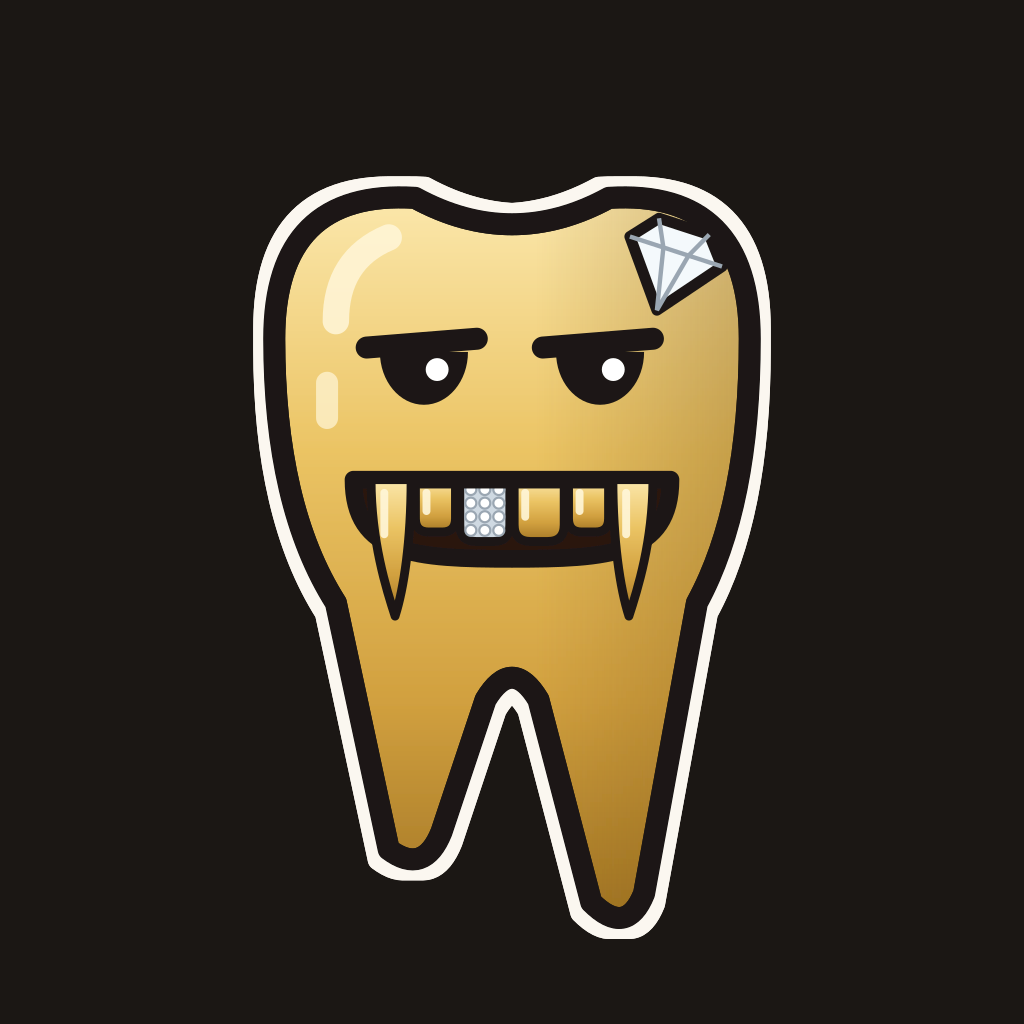
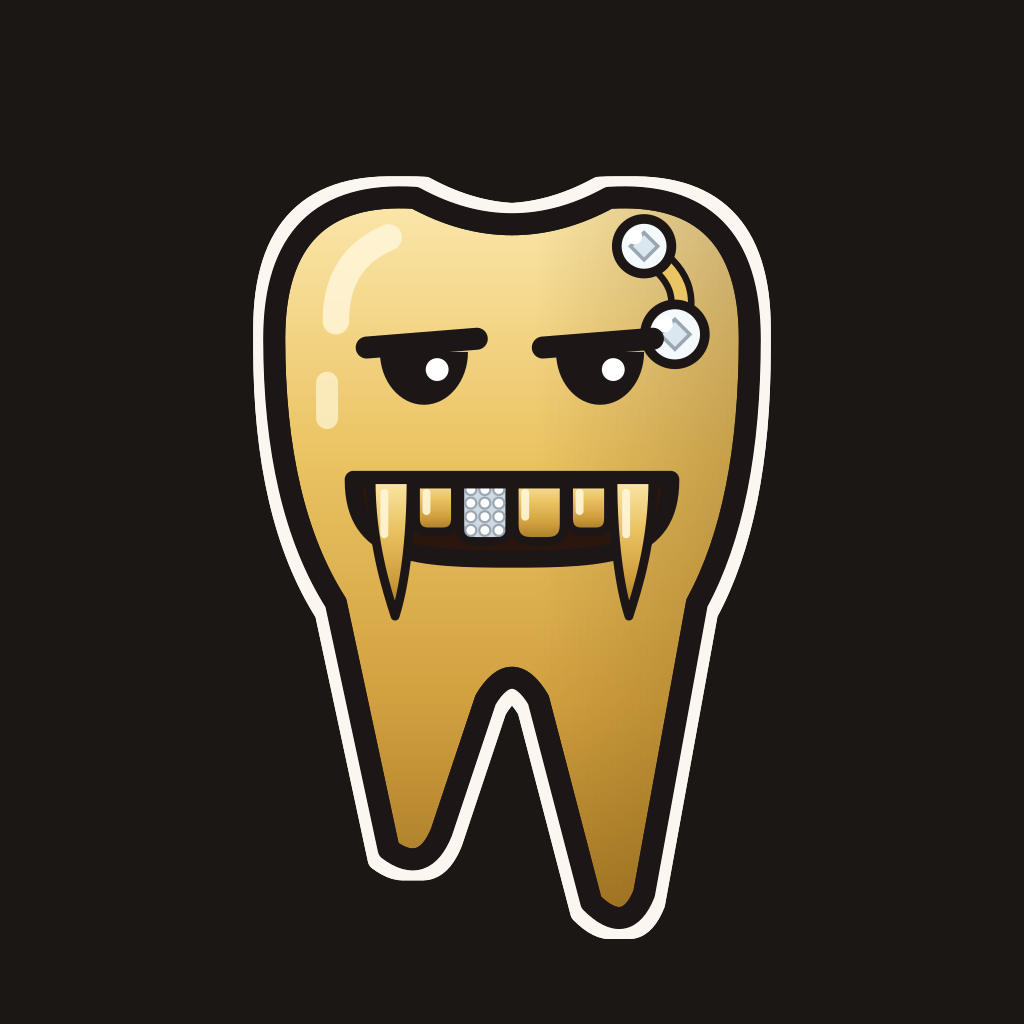
Karat: eyebrow piercing instead of the crown stone
A curved gold barbell through the outer right brow with an iced-out,
diamond-cut stone on each end, on every expression, the side view and the
exports.

Claude-Session: https://claude.ai/code/session_01CsKqmQb1fcvU3uVFSjXsG3

Changed region(s): [[0.5938, 0.1875, 0.7188, 0.375]]

diff --git a/scripts/mascot-model.ts b/scripts/mascot-model.ts
@@ -107,8 +107,12 @@ export function mascot(expression: Expression, id: string, { sticker = false, sh
   const { rotate = 0, lift = 0 } = expression.pose ?? {};
   const fill = expression.dull ? 'url(#dull)' : 'url(#gold)';
   const brows = (expression.brows ?? []).map(([x1, y1, x2, y2]) => `<path d="M${x1} ${y1}L${x2} ${y2}" stroke="${INK}" stroke-width="6" stroke-linecap="round"/>`).join('');
-  // The signature: one brilliant-cut stone set in the crown.
-  const stone = `<g transform="translate(136 44) rotate(18)"><path d="M-11 -4L-6 -10L6 -10L11 -4L0 10Z" fill="${expression.dull ? '#c9c6bd' : '#f4f9fc'}" stroke="${INK}" stroke-width="2.5" stroke-linejoin="round"/><path d="M-11 -4L11 -4M-6 -10L-3 -4L0 10L3 -4L6 -10" fill="none" stroke="#9aa6b2" stroke-width="1"/></g>`;
+  // The signature: an eyebrow piercing at the outer end of his right brow, a
+  // curved gold barbell with an iced-out stone on each end.
+  const ice = expression.dull ? '#c9c6bd' : '#f4f9fc';
+  const gem = (cx: number, cy: number, r: number) =>
+    `<circle cx="${cx}" cy="${cy}" r="${r}" fill="${ice}" stroke="${INK}" stroke-width="2.2"/><path d="M${cx - r * 0.5} ${cy}L${cx} ${cy - r * 0.5}L${cx + r * 0.5} ${cy}L${cx} ${cy + r * 0.5}Z" fill="#dbe7f0" stroke="#9aa6b2" stroke-width=".8"/>${expression.dull ? '' : `<circle cx="${cx - r * 0.35}" cy="${cy - r * 0.35}" r="${r * 0.28}" fill="#fff"/>`}`;
+  const stone = `<g><path d="M130 40Q142 47 137 58" fill="none" stroke="${INK}" stroke-width="6" stroke-linecap="round"/><path d="M130 40Q142 47 137 58" fill="none" stroke="${expression.dull ? '#b3a684' : '#ebc464'}" stroke-width="3" stroke-linecap="round"/>${gem(130, 39, 6.2)}${gem(137, 59, 6.8)}</g>`;
   const body = `<g transform="translate(0 ${-lift}) rotate(${rotate} 100 120)"${sticker ? ' filter="url(#sticker)"' : ''}>
 <path d="${BODY}" fill="${fill}" stroke="${INK}" stroke-width="5" stroke-linejoin="round"/>
 <path d="${BODY}" fill="url(#shade)"/>
@@ -222,7 +226,7 @@ function side(id: string) {
 <path d="${SIDE}" fill="url(#shade)" transform="scale(-1 1) translate(-196 0)" opacity=".7"/>
 <path d="${SIDE}" fill="none" stroke="${INK}" stroke-width="5" stroke-linejoin="round"/>
 <path d="M76 54Q78 42 88 37" fill="none" stroke="#fff6d8" stroke-width="6" stroke-linecap="round" opacity=".85"/>
-<g transform="translate(84 44) rotate(-12) scale(0.8 0.9)"><path d="M-11 -4L-6 -10L6 -10L11 -4L0 10Z" fill="#f4f9fc" stroke="${INK}" stroke-width="2.5" stroke-linejoin="round"/></g>
+<path d="M120 42Q128 47 125 56" fill="none" stroke="${INK}" stroke-width="5" stroke-linecap="round"/><path d="M120 42Q128 47 125 56" fill="none" stroke="#ebc464" stroke-width="2.4" stroke-linecap="round"/><circle cx="120" cy="41" r="4.5" fill="#f4f9fc" stroke="${INK}" stroke-width="2"/><circle cx="125" cy="57" r="4.5" fill="#f4f9fc" stroke="${INK}" stroke-width="2"/>
 <path d="M110 63A8 11 0 0 0 126 63Z" fill="${INK}"/><path d="M107 62L128 59" stroke="${INK}" stroke-width="5" stroke-linecap="round"/><circle cx="121" cy="66" r="2.3" fill="#fff"/>
 <clipPath id="side${id}"><path d="M98 90L129 90L127 103Q116 108 102 100Z"/></clipPath>
 <path d="M98 90L129 90L127 103Q116 108 102 100Z" fill="#2a1511"/>

diff --git a/docs/brand/mascot/README.md b/docs/brand/mascot/README.md
@@ -1,7 +1,8 @@
 # Karat, the VVS Lab mascot
 
 **Name: Karat.** Gold purity is measured in karats and diamonds in carats,
-and Karat is both: a gold tooth with a diamond set in its crown. It's the
+and Karat is both: a gold tooth with diamond bling, iced-out stones in his
+eyebrow piercing and his grill. It's the
 jeweler's word, it sounds like a name, and it carries the craftsman side of
 the brief.
 
@@ -96,8 +97,8 @@ Expressions all come from the same parts later, so the pick is the
 
 Resting face **Cool** (heavy lids, slow grin: confident, flashy, unbothered,
 matching "Your DMs are losing custom orders"); **Hype** for wins. Polished
-gold with side shading and highlights, a brilliant-cut stone set in the crown
-as the signature, and a cream sticker edge on dark backgrounds.
+gold with side shading and highlights, an eyebrow piercing (a curved gold
+barbell with an iced-out stone on each end) as the signature, and a cream sticker edge on dark backgrounds.
 
 ![Expressions](round-4-expressions.png)
 
